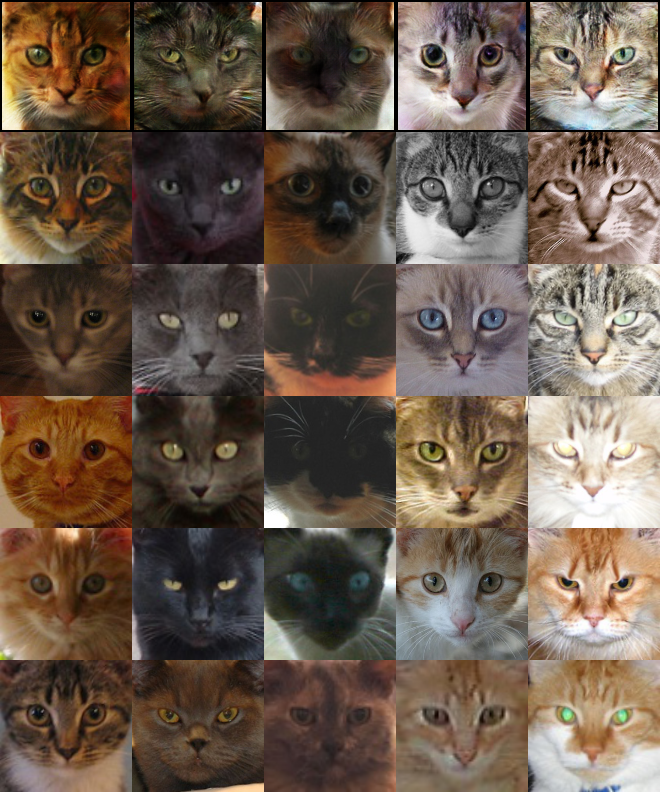
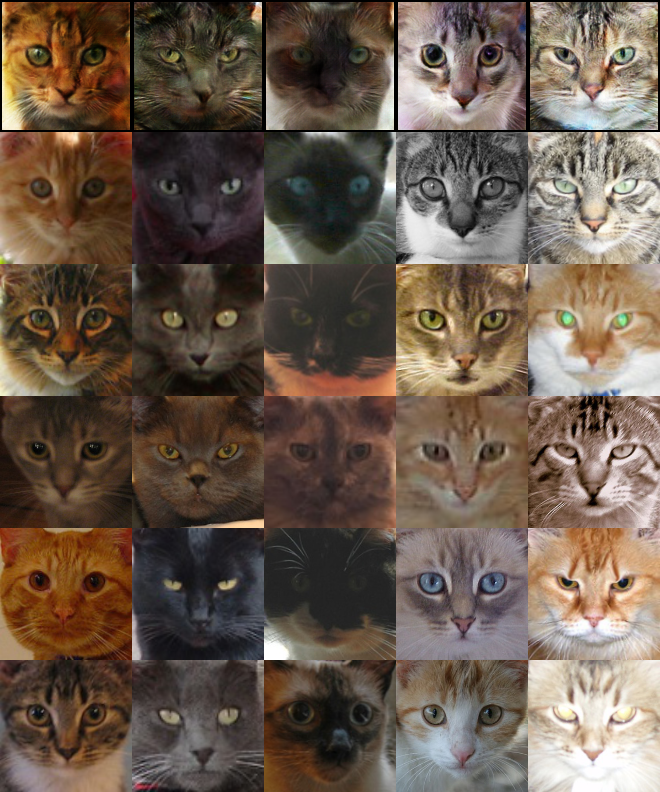
Fixed bug in order of top 5
Top 5 most similar cats were not presented in the right order. This is fixed now.

diff --git a/most_similar.py b/most_similar.py
@@ -74,8 +74,9 @@ for imagePath_fake in glob.glob('%s/*.%s' % (param.input_folder_fake_img,param.f
 		if similarity > min_similarity:
 			most_similar_images[min_index] = imagePath_real
 			most_similar_images_ssim[min_index] = similarity
+	# Sort from most similar to least similar in top 5
+	most_similar_images = [x2 for (x1,x2) in sorted(zip(most_similar_images_ssim,most_similar_images), reverse=True)]
 	# Add most similar ones to picture
-	most_similar_images.sort()
 	current_image = image_fake
 	for imagePath_real in most_similar_images:
 		image_real = cv2.imread(imagePath_real)
